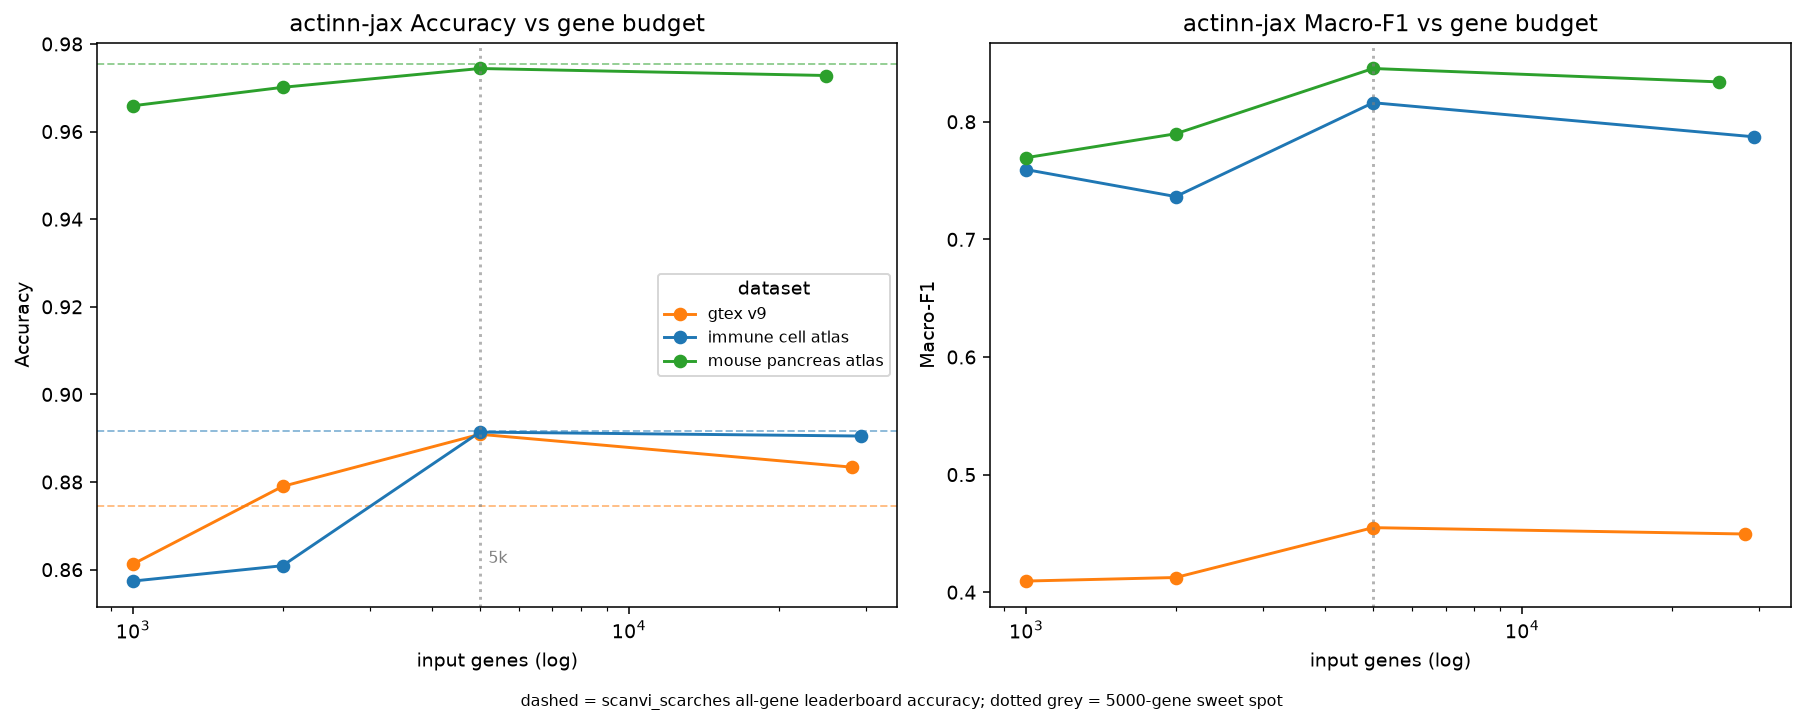
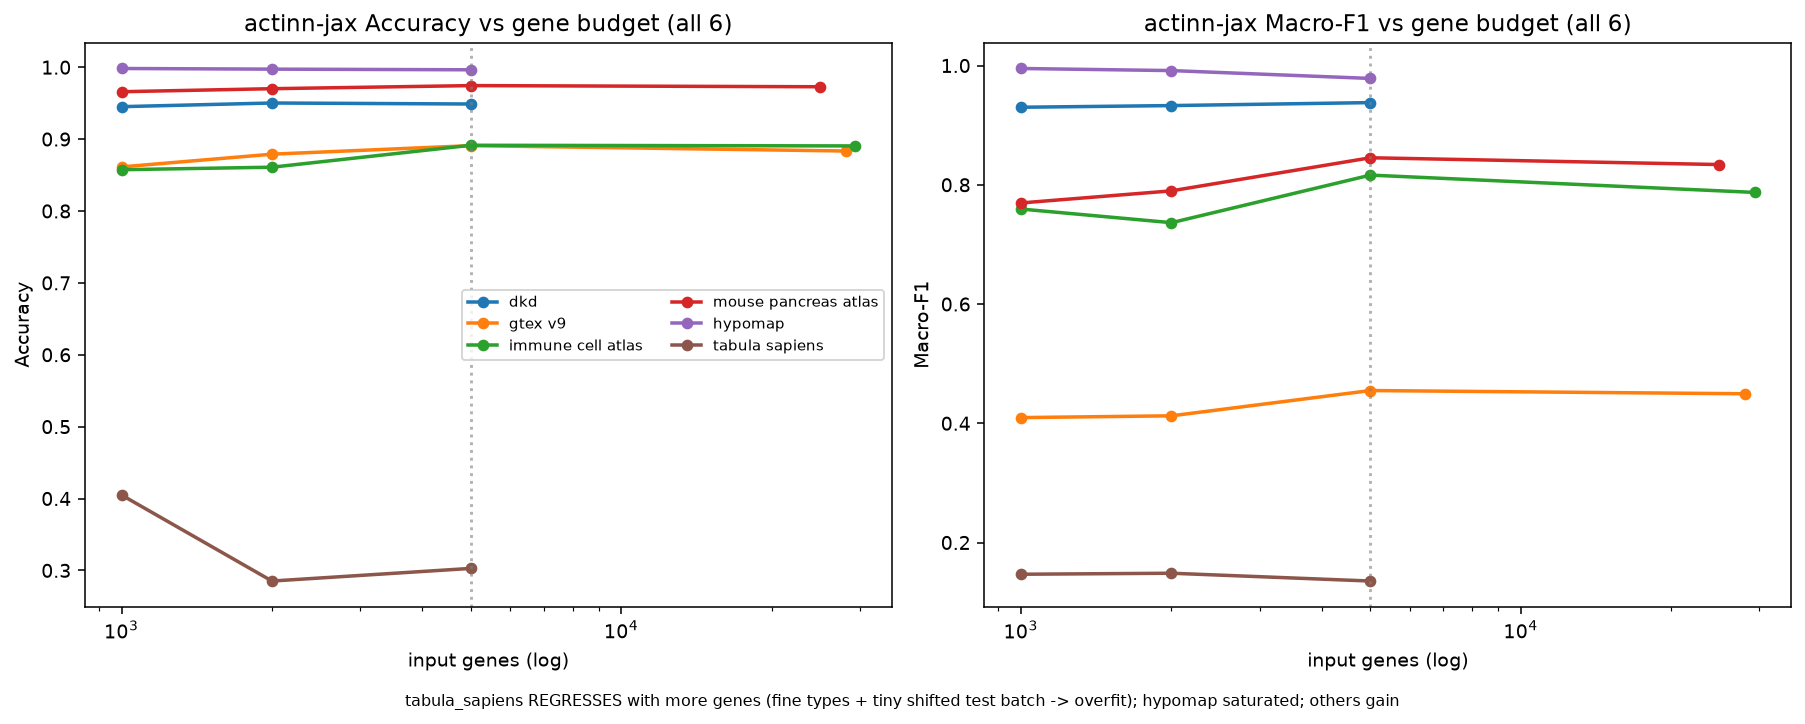
Gene-budget sweep on ALL 6 datasets: 5000 helps most, wrecks tabula_sapiens
Completed the same-hardware sweep (dkd, hypomap, tabula_sapiens added).
Corrects the earlier 3-dataset "5000 is a cheap win" read:
- 4/6 gain (gtex +3.0, immune +3.4; immune 0.891 matches scArches 0.892).
- hypomap saturated (~0.998, no gain).
- tabula_sapiens REGRESSES -10.2 pt (0.405->0.303), monotonic in genes:
  284-cell test batch x 160 fine types -> more genes overfit reference-
  specific signal (more-features-hurt-under-domain-shift).
- Net mean over 6 is -0.5 (TS collapse outweighs the rest); +1.5 excl TS.
Cost: ~2-2.5x fit time (<=4 min), bounded memory (3-24 GB).

Revised recommendation: keep n_hvg=1000 as the robust default (do NOT
blanket-raise -- it would tank TS, actinn-jax's all-6 differentiator); raise
to ~5000 only for well-behaved same-domain references; fewer genes for hard
cross-domain targets. Adaptive gene budget is the real fix.

diff --git a/benchmark/explore/gene_budget.py b/benchmark/explore/gene_budget.py
@@ -47,8 +47,9 @@ def peak_sampler(peak, run):
         except Exception: pass
         time.sleep(0.1)
 
+budgets = sys.argv[3].split(",") if len(sys.argv) > 3 else ["1000_op", "2000", "5000", "all"]
 rows = []
-for budget in ["1000_op", "2000", "5000", "all"]:
+for budget in budgets:
     m = mask_for(budget)
     trm = tr[:, m].copy(); tem = te[:, m].copy()
     peak = [0.0]; run = [True]; th = threading.Thread(target=peak_sampler, args=(peak, run), daemon=True); th.start()

diff --git a/docs/OPENPROBLEMS.md b/docs/OPENPROBLEMS.md
@@ -222,38 +222,48 @@ The gap to scArches's all-gene leaderboard number (0.892) therefore comes substa
 per se. (Single dataset, resource-constrained CPU run: illustrative, not a full re-benchmark;
 CPU cost was ~23 min at 1k HVG / 30k cells vs. days for the full all-gene config.)
 
-### Does actinn-jax improve with more genes? Yes — and it closes the gap
+### Does actinn-jax improve with more genes? On most datasets yes — but not all
 
-The obvious follow-up: OP feeds *every* method the same 1000 HVGs, and a gene-space MLP is the
-one most starved by that. Sweeping actinn-jax's input gene budget (seurat_v3 HVG,
-`standardize=True`, full reference; `benchmark/explore/gene_budget.py`):
+OP feeds *every* method the same 1000 HVGs, and a gene-space MLP is the one most starved by
+that. Sweeping actinn-jax's input gene budget on **all 6 datasets, same hardware**
+(seurat_v3 HVG, `standardize=True`, full reference; `benchmark/explore/gene_budget.py`):
 
-![actinn-jax accuracy & macro-F1 vs gene budget](figures/gene_budget_curve.png)
+![actinn-jax accuracy & macro-F1 vs gene budget, all 6 datasets](figures/gene_budget_curve.png)
 
-| dataset | 1000 | 2000 | **5000** | all (~27k) | scArches (all-gene) |
-|---|---|---|---|---|---|
-| immune_cell_atlas | 0.857 | 0.861 | **0.891** | 0.890 | 0.892 |
-| gtex_v9 | 0.861 | 0.879 | **0.891** | 0.883 | 0.875 |
-| mouse_pancreas | 0.966 | 0.970 | **0.974** | 0.973 | 0.976 |
+| dataset | acc 1k | acc 5k | Δacc | F1 1k | F1 5k | ΔF1 | fit 1k→5k | peak GB 1k→5k |
+|---|---|---|---|---|---|---|---|---|
+| dkd | 0.945 | 0.949 | +0.4 | 0.930 | 0.938 | +0.8 | 7→16 s | 3.5→3.7 |
+| gtex_v9 | 0.861 | 0.891 | **+3.0** | 0.409 | 0.455 | +4.5 | 94→119 s | 6.1→5.8 |
+| immune_cell_atlas | 0.857 | 0.891 | **+3.4** | 0.759 | 0.816 | +5.7 | 65→158 s | 11.9→7.4 |
+| mouse_pancreas | 0.966 | 0.974 | +0.9 | 0.769 | 0.845 | +7.6 | 56→147 s | 13.3→9.4 |
+| hypomap | 0.998 | 0.996 | −0.2 | 0.995 | 0.978 | −1.7 | 70→188 s | 17.9→13.7 |
+| tabula_sapiens | 0.405 | **0.303** | **−10.2** | 0.147 | 0.135 | −1.1 | 101→223 s | 23.5→21.7 |
+| **mean (6)** | **0.839** | **0.834** | **−0.5** | | | | | |
+| mean (excl. TS) | 0.926 | 0.940 | **+1.5** | | | | | |
 
-*(accuracy; macro-F1 rises in lockstep — immune 0.759→0.816, gtex 0.410→0.455, mouse
-0.770→0.845 from 1k→5k).*
+Four conclusions — and the important one is the exception:
 
-Three clean conclusions, consistent across all three datasets:
+1. **More genes help the "normal" datasets** — 4 of 6 gain (gtex +3.0, immune +3.4 lead),
+   and on those five the mean rises +1.5 pt accuracy. On immune, 5000 genes reaches 0.891,
+   **matching scArches's full-config 0.892** (see the four-way above): that gap was gene
+   budget, not the model.
+2. **But tabula_sapiens *regresses hard* — −10.2 pt** (0.405 → 0.303), monotonically worse
+   with more genes. Its 284-cell test batch spans 160 fine types across many organs; extra
+   genes let the MLP overfit reference/organ-specific expression that the tiny shifted test
+   batch can't exploit. This is the classic **more-features-hurt-under-domain-shift** regime.
+   hypomap is already saturated (0.998) and gains nothing.
+3. **Net over all 6, 5000 is slightly *worse* (−0.5)** — TS's collapse outweighs the others'
+   gains. So a blanket `n_hvg=5000` would trade a modest lift on easy references for a
+   catastrophic loss on the hardest one — exactly the dataset that is actinn-jax's
+   all-6-completion differentiator. `n_hvg=1000` is the more robust default.
+4. **Cost is modest and bounded:** 5000 genes is ~2–2.5× the fit time (still ≤ 4 min) and
+   comparable, data-load-dominated peak memory (3–24 GB; sometimes *lower* than 1000).
 
-1. **More genes help, a lot.** 1000 → 5000 lifts accuracy +3.4 / +3.0 / +0.8 pt and macro-F1
-   +5.7 / +4.5 / +7.6 pt. The gene-space MLP was simply under-fed at 1000 HVGs.
-2. **At 5000 genes, actinn-jax matches or beats scANVI+scArches's full-config leaderboard
-   accuracy** — immune 0.891 ≈ 0.892, gtex 0.891 **>** 0.875, mouse 0.974 ≈ 0.976 — on CPU in
-   ~2–3 min. **The gap to scArches was gene budget, not the model.**
-3. **~5000 is the sweet spot; "all genes" is worse.** All ~27k genes plateaus or *regresses*
-   accuracy on every dataset (noise genes dilute the signal) and costs **5–9× the runtime**
-   (500–870 s vs 120–160 s) at no benefit. Peak memory stays bounded (~5–14 GB) throughout.
-
-**Actionable:** the shipped OP component's `n_hvg=1000` leaves ~3 accuracy points on the
-table; `n_hvg≈5000` (its own seurat_v3 HVGs rather than the task's 1000) is a large, cheap
-win that erases the headline gap to the top method. Full sweep:
-`docs/results_gene_budget.csv`.
+**Revised takeaway (correcting an earlier optimistic read):** the gene budget is a **tunable
+knob, not a free lunch.** Keep `n_hvg=1000` as the robust default; raise to ~5000 for
+well-behaved same-domain references; and for hard cross-domain / fine-grained targets,
+*fewer* genes are safer. An adaptive rule (widen the gene set only when train/test
+distributions look similar) is the real fix. Full sweep: `docs/results_gene_budget.csv`.
 
 ## Reading the result
 
